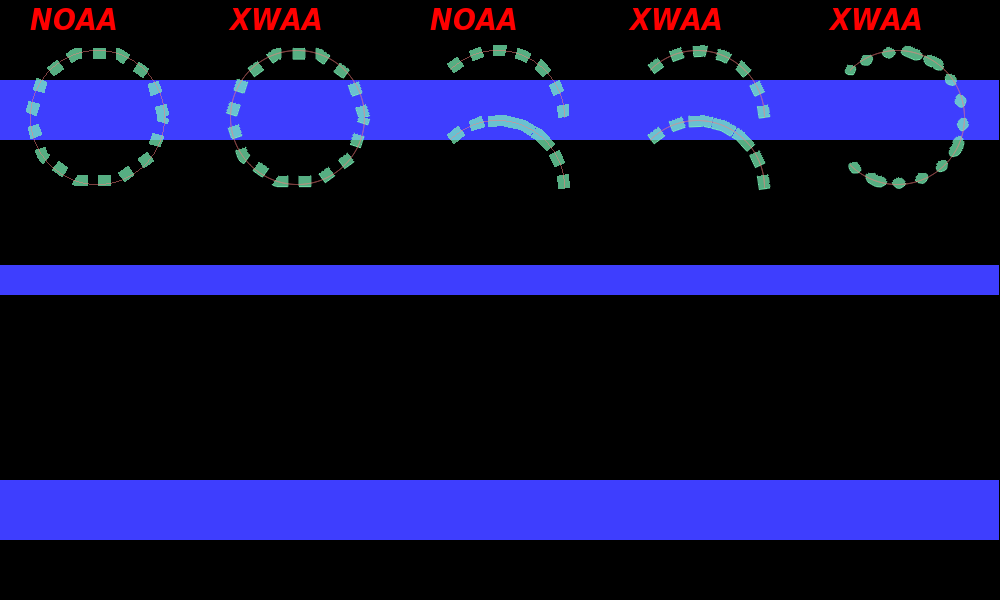
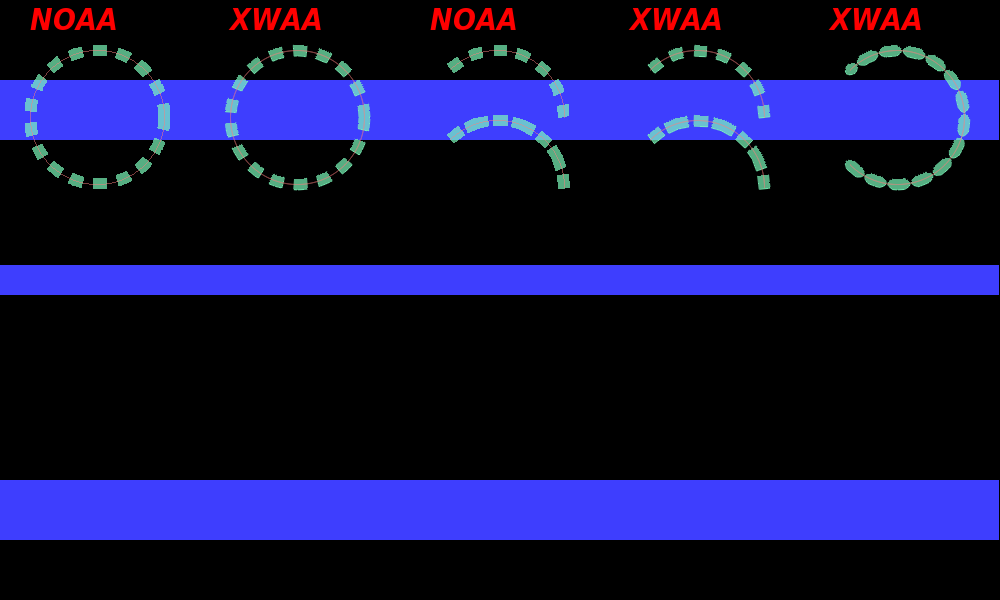
Slight visual fix

diff --git a/src/Pt-Gfx/Polygonizer.cpp b/src/Pt-Gfx/Polygonizer.cpp
@@ -258,9 +258,13 @@ void Polygonizer::renderEllipsePoints(std::vector<PointF>& dst,
                                       const Pen& pen)
 {
     // Calculate the ellipse's parameters
+    /*
     Pt::int32_t circFac = Pt::lround( sqrt(0.5f * (radiusX * radiusX + radiusY * radiusY) ) /
                                       ( (pen.size() > 4) ? (pen.size() * 0.25f) : 1.0f )
                                     );
+    */
+    Pt::int32_t circFac = Pt::lround( sqrt(0.5f * (radiusX * radiusX + radiusY * radiusY) ) );
+
     const Pt::int32_t segMult = !pen.isSolid() ? 10 : 20;
     const Pt::int32_t circSeg = (circFac / 16) * segMult + 1;
     const Pt::int32_t nSegs   = (circSeg <  9) ?  9 : circSeg;
@@ -426,10 +430,16 @@ void Polygonizer::renderArcPoints(std::vector<PointF>& dst,
     // Calculate the arc's parameters
     const float       degDlt  = degEnd - degBegin;
     const float       degFac  = degDlt / 360.0f;
+    /*
     const Pt::int32_t circFac = Pt::lround(
                                     degFac *
                                     sqrt( 0.5f * (radiusX * radiusX + radiusY * radiusY) ) /
                                     ( (pen.size() > 4) ? (pen.size() * 0.25f) : 1.0f )
+                                );
+    */
+    const Pt::int32_t circFac = Pt::lround(
+                                    degFac *
+                                    sqrt( 0.5f * (radiusX * radiusX + radiusY * radiusY) )
                                 );
 
     const Pt::int32_t segMult = !pen.isSolid() ? 10 : 20;

diff --git a/src/Pt-Hmi/demo/PainterDemo.cpp b/src/Pt-Hmi/demo/PainterDemo.cpp
@@ -624,7 +624,7 @@ class PainterDemoWindow : public Pt::Hmi::Window
             _tabView.addTab(_tabCapStyles,   "Cap Styles"   );
             _tabView.addTab(_tabJoinStyles,  "Join Styles"  );
             _tabView.setPadding(8);
-            _tabView.setCurrent(0);
+            _tabView.setCurrent(3);
 
             this->setContent(&_tabView);
         }
